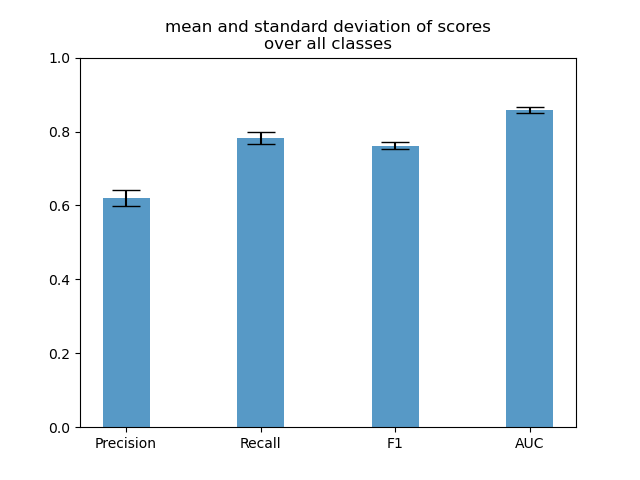
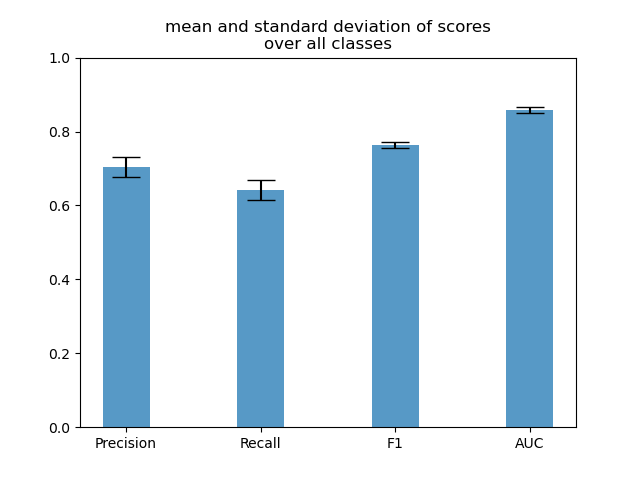
add results with new f1 score of exp2-4 + results of ensemble size evaluation

Changed region(s): [[0.3438, 0.25, 0.4688, 0.4375], [0.1562, 0.3125, 0.25, 0.4375], [0.5938, 0.2812, 0.6562, 0.3125]]

diff --git a/figures/results-ensemble-size/results-ensemble-size_b.py b/figures/results-ensemble-size/results-ensemble-size_b.py
@@ -461,88 +461,88 @@ if __name__ == '__main__':
         df_test = df.loc[test_index]
         y_true = df_test[["toxic", "engaging", "fact"]].to_numpy()
 
-        gelectra50, gelectra50_thresholds = get_gelectra_multilabel(df_train, df_test, pool_size)
-        gbert50, gbert50_thresholds = get_gbert_multilabel(df_train, df_test, pool_size)
-        gelectra25 = gelectra50[:pool_size // 2]
-        gbert25 = gbert50[:pool_size // 2]
-#        gelectra25_toxic = get_gelectra_singlelabel(df_train, df_test, pool_size // 2, 'toxic')
-#        gbert25_toxic = get_gbert_singlelabel(df_train, df_test, pool_size // 2, 'toxic')
-#        gelectra25_engaging = get_gelectra_singlelabel(df_train, df_test, pool_size // 2, 'engaging')
-#        gbert25_engaging = get_gbert_singlelabel(df_train, df_test, pool_size // 2, 'engaging')
-#        gelectra25_fact = get_gelectra_singlelabel(df_train, df_test, pool_size // 2, 'fact')
-#        gbert25_fact = get_gbert_singlelabel(df_train, df_test, pool_size // 2, 'fact')
+#        gelectra50, gelectra50_thresholds = get_gelectra_multilabel(df_train, df_test, pool_size)
+#        gbert50, gbert50_thresholds = get_gbert_multilabel(df_train, df_test, pool_size)
+#        gelectra25 = gelectra50[:pool_size // 2]
+#        gbert25 = gbert50[:pool_size // 2]
+        gelectra25_toxic = get_gelectra_singlelabel(df_train, df_test, pool_size // 2, 'toxic')
+        gbert25_toxic = get_gbert_singlelabel(df_train, df_test, pool_size // 2, 'toxic')
+        gelectra25_engaging = get_gelectra_singlelabel(df_train, df_test, pool_size // 2, 'engaging')
+        gbert25_engaging = get_gbert_singlelabel(df_train, df_test, pool_size // 2, 'engaging')
+        gelectra25_fact = get_gelectra_singlelabel(df_train, df_test, pool_size // 2, 'fact')
+        gbert25_fact = get_gbert_singlelabel(df_train, df_test, pool_size // 2, 'fact')
 
-        for i in range(1, max_size + 1):
-            np.random.seed(i)
-            idx = np.random.choice(len(gelectra50), size=(bootstrap_size, i))
-            idx_mapped = np.array([np.array([gelectra50[k] for k in j]) for j in idx])
-            ensembles = np.array([np.sum(j, axis=0) / len(j) for j in idx_mapped])
-            optimal_thresholds = [thresholds[np.argmax(np.mean(gelectra50_thresholds[j], axis=0), axis=0)] for j in idx]
-            f1s = np.array(
-                [calc_f1_score_germeval(y_true, (e >= t) * 1) for e, t in zip(ensembles, optimal_thresholds)])
-            mean_scores[0][fold].append(np.mean(f1s))
-            std_scores[0][fold].append(np.std(f1s))
-
-        for i in range(2, max_size + 1, 2):
-            np.random.seed(i)
-            idx_el = np.random.choice(len(gelectra25), size=(bootstrap_size, int(i / 2)))
-            idx_mapped_el = np.array([np.array([gelectra25[k] for k in j]) for j in idx_el])
-            idx_be = np.random.choice(len(gbert25), size=(bootstrap_size, int(i / 2)))
-            idx_mapped_be = np.array([np.array([gbert25[k] for k in j]) for j in idx_be])
-            idx_mapped = np.append(idx_mapped_el, idx_mapped_be, axis=1)
-            ensembles = np.array([np.sum(j, axis=0) / len(j) for j in idx_mapped])
-            combined_thresholds = np.append([gelectra50_thresholds[j] for j in idx_el],
-                                            [gbert50_thresholds[j] for j in idx_be], axis=1)
-            optimal_thresholds = [thresholds[np.argmax(np.mean(t, axis=0), axis=0)] for t in combined_thresholds]
-            f1s = np.array(
-                [calc_f1_score_germeval(y_true, (e >= t) * 1) for e, t in zip(ensembles, optimal_thresholds)])
-            mean_scores[1][fold].append(np.mean(f1s))
-            std_scores[1][fold].append(np.std(f1s))
-
-        for i in range(1, max_size + 1):
-            np.random.seed(i)
-            idx = np.random.choice(len(gbert50), size=(bootstrap_size, i))
-            idx_mapped = np.array([np.array([gbert50[k] for k in j]) for j in idx])
-            ensembles = np.array([np.sum(j, axis=0) / len(j) for j in idx_mapped])
-            optimal_thresholds = [thresholds[np.argmax(np.mean(gbert50_thresholds[j], axis=0), axis=0)] for j in idx]
-            f1s = np.array(
-                [calc_f1_score_germeval(y_true, (e >= t) * 1) for e, t in zip(ensembles, optimal_thresholds)])
-            mean_scores[2][fold].append(np.mean(f1s))
-            std_scores[2][fold].append(np.std(f1s))
+#        for i in range(1, max_size + 1):
+#            np.random.seed(i)
+#            idx = np.random.choice(len(gelectra50), size=(bootstrap_size, i))
+#            idx_mapped = np.array([np.array([gelectra50[k] for k in j]) for j in idx])
+#            ensembles = np.array([np.sum(j, axis=0) / len(j) for j in idx_mapped])
+#            optimal_thresholds = [thresholds[np.argmax(np.mean(gelectra50_thresholds[j], axis=0), axis=0)] for j in idx]
+#            f1s = np.array(
+#                [calc_f1_score_germeval(y_true, (e >= t) * 1) for e, t in zip(ensembles, optimal_thresholds)])
+#            mean_scores[0][fold].append(np.mean(f1s))
+#            std_scores[0][fold].append(np.std(f1s))
 
 #        for i in range(2, max_size + 1, 2):
 #            np.random.seed(i)
-#            idx_el_to = np.random.choice(len(gelectra25_toxic), size=(bootstrap_size, int(i / 2)))
-#            idx_mapped_el_to = np.array([np.array([gelectra25_toxic[k] for k in j]) for j in idx_el_to])
-#            idx_be_to = np.random.choice(len(gbert25_toxic), size=(bootstrap_size, int(i / 2)))
-#            idx_mapped_be_to = np.array([np.array([gbert25_toxic[k] for k in j]) for j in idx_be_to])
-#            idx_mapped_to = np.append(idx_mapped_el_to, idx_mapped_be_to, axis=1)
-#            ensembles_to = np.array(
-#                [np.argmax(np.sum(j, axis=0) / len(j), axis=1).reshape((len(y_true), 1)) for j in idx_mapped_to])
+#            idx_el = np.random.choice(len(gelectra25), size=(bootstrap_size, int(i / 2)))
+#            idx_mapped_el = np.array([np.array([gelectra25[k] for k in j]) for j in idx_el])
+#            idx_be = np.random.choice(len(gbert25), size=(bootstrap_size, int(i / 2)))
+#            idx_mapped_be = np.array([np.array([gbert25[k] for k in j]) for j in idx_be])
+#            idx_mapped = np.append(idx_mapped_el, idx_mapped_be, axis=1)
+#            ensembles = np.array([np.sum(j, axis=0) / len(j) for j in idx_mapped])
+#            combined_thresholds = np.append([gelectra50_thresholds[j] for j in idx_el],
+#                                            [gbert50_thresholds[j] for j in idx_be], axis=1)
+#            optimal_thresholds = [thresholds[np.argmax(np.mean(t, axis=0), axis=0)] for t in combined_thresholds]
+#            f1s = np.array(
+#                [calc_f1_score_germeval(y_true, (e >= t) * 1) for e, t in zip(ensembles, optimal_thresholds)])
+#            mean_scores[1][fold].append(np.mean(f1s))
+#            std_scores[1][fold].append(np.std(f1s))
 
-#            idx_el_en = np.random.choice(len(gelectra25_engaging), size=(bootstrap_size, int(i / 2)))
-#            idx_mapped_el_en = np.array([np.array([gelectra25_engaging[k] for k in j]) for j in idx_el_en])
-#            idx_be_en = np.random.choice(len(gbert25_engaging), size=(bootstrap_size, int(i / 2)))
-#            idx_mapped_be_en = np.array([np.array([gbert25_engaging[k] for k in j]) for j in idx_be_en])
-#            idx_mapped_en = np.append(idx_mapped_el_en, idx_mapped_be_en, axis=1)
-#            ensembles_en = np.array(
-#                [np.argmax(np.sum(j, axis=0) / len(j), axis=1).reshape((len(y_true), 1)) for j in idx_mapped_en])
+#        for i in range(1, max_size + 1):
+#            np.random.seed(i)
+#            idx = np.random.choice(len(gbert50), size=(bootstrap_size, i))
+#            idx_mapped = np.array([np.array([gbert50[k] for k in j]) for j in idx])
+#            ensembles = np.array([np.sum(j, axis=0) / len(j) for j in idx_mapped])
+#            optimal_thresholds = [thresholds[np.argmax(np.mean(gbert50_thresholds[j], axis=0), axis=0)] for j in idx]
+#            f1s = np.array(
+#                [calc_f1_score_germeval(y_true, (e >= t) * 1) for e, t in zip(ensembles, optimal_thresholds)])
+#            mean_scores[2][fold].append(np.mean(f1s))
+#            std_scores[2][fold].append(np.std(f1s))
 
-#            idx_el_fa = np.random.choice(len(gelectra25_fact), size=(bootstrap_size, int(i / 2)))
-#            idx_mapped_el_fa = np.array([np.array([gelectra25_fact[k] for k in j]) for j in idx_el_fa])
-#            idx_be_fa = np.random.choice(len(gbert25_fact), size=(bootstrap_size, int(i / 2)))
-#            idx_mapped_be_fa = np.array([np.array([gbert25_fact[k] for k in j]) for j in idx_be_fa])
-#            idx_mapped_fa = np.append(idx_mapped_el_fa, idx_mapped_be_fa, axis=1)
-#            ensembles_fa = np.array(
-#                [np.argmax(np.sum(j, axis=0) / len(j), axis=1).reshape((len(y_true), 1)) for j in idx_mapped_fa])
+        for i in range(2, max_size + 1, 2):
+            np.random.seed(i)
+            idx_el_to = np.random.choice(len(gelectra25_toxic), size=(bootstrap_size, int(i / 2)))
+            idx_mapped_el_to = np.array([np.array([gelectra25_toxic[k] for k in j]) for j in idx_el_to])
+            idx_be_to = np.random.choice(len(gbert25_toxic), size=(bootstrap_size, int(i / 2)))
+            idx_mapped_be_to = np.array([np.array([gbert25_toxic[k] for k in j]) for j in idx_be_to])
+            idx_mapped_to = np.append(idx_mapped_el_to, idx_mapped_be_to, axis=1)
+            ensembles_to = np.array(
+                [np.argmax(np.sum(j, axis=0) / len(j), axis=1).reshape((len(y_true), 1)) for j in idx_mapped_to])
 
-#            ensembles = np.append(np.append(ensembles_to, ensembles_en, axis=2), ensembles_fa, axis=2)
+            idx_el_en = np.random.choice(len(gelectra25_engaging), size=(bootstrap_size, int(i / 2)))
+            idx_mapped_el_en = np.array([np.array([gelectra25_engaging[k] for k in j]) for j in idx_el_en])
+            idx_be_en = np.random.choice(len(gbert25_engaging), size=(bootstrap_size, int(i / 2)))
+            idx_mapped_be_en = np.array([np.array([gbert25_engaging[k] for k in j]) for j in idx_be_en])
+            idx_mapped_en = np.append(idx_mapped_el_en, idx_mapped_be_en, axis=1)
+            ensembles_en = np.array(
+                [np.argmax(np.sum(j, axis=0) / len(j), axis=1).reshape((len(y_true), 1)) for j in idx_mapped_en])
 
-#            f1s = np.array([calc_f1_score_germeval(y_true, j) for j in ensembles])
-#            mean_scores[3][fold].append(np.mean(f1s))
-#            std_scores[3][fold].append(np.std(f1s))
+            idx_el_fa = np.random.choice(len(gelectra25_fact), size=(bootstrap_size, int(i / 2)))
+            idx_mapped_el_fa = np.array([np.array([gelectra25_fact[k] for k in j]) for j in idx_el_fa])
+            idx_be_fa = np.random.choice(len(gbert25_fact), size=(bootstrap_size, int(i / 2)))
+            idx_mapped_be_fa = np.array([np.array([gbert25_fact[k] for k in j]) for j in idx_be_fa])
+            idx_mapped_fa = np.append(idx_mapped_el_fa, idx_mapped_be_fa, axis=1)
+            ensembles_fa = np.array(
+                [np.argmax(np.sum(j, axis=0) / len(j), axis=1).reshape((len(y_true), 1)) for j in idx_mapped_fa])
 
-    with open('scores/scores.txt', 'w') as f:
+            ensembles = np.append(np.append(ensembles_to, ensembles_en, axis=2), ensembles_fa, axis=2)
+
+            f1s = np.array([calc_f1_score_germeval(y_true, j) for j in ensembles])
+            mean_scores[3][fold].append(np.mean(f1s))
+            std_scores[3][fold].append(np.std(f1s))
+
+    with open('scores/scores_b.txt', 'w') as f:
         f.write('setups:\n')
         f.write('1. GELECTRA\n')
         f.write('2. GELECTRA + GBERT\n')
